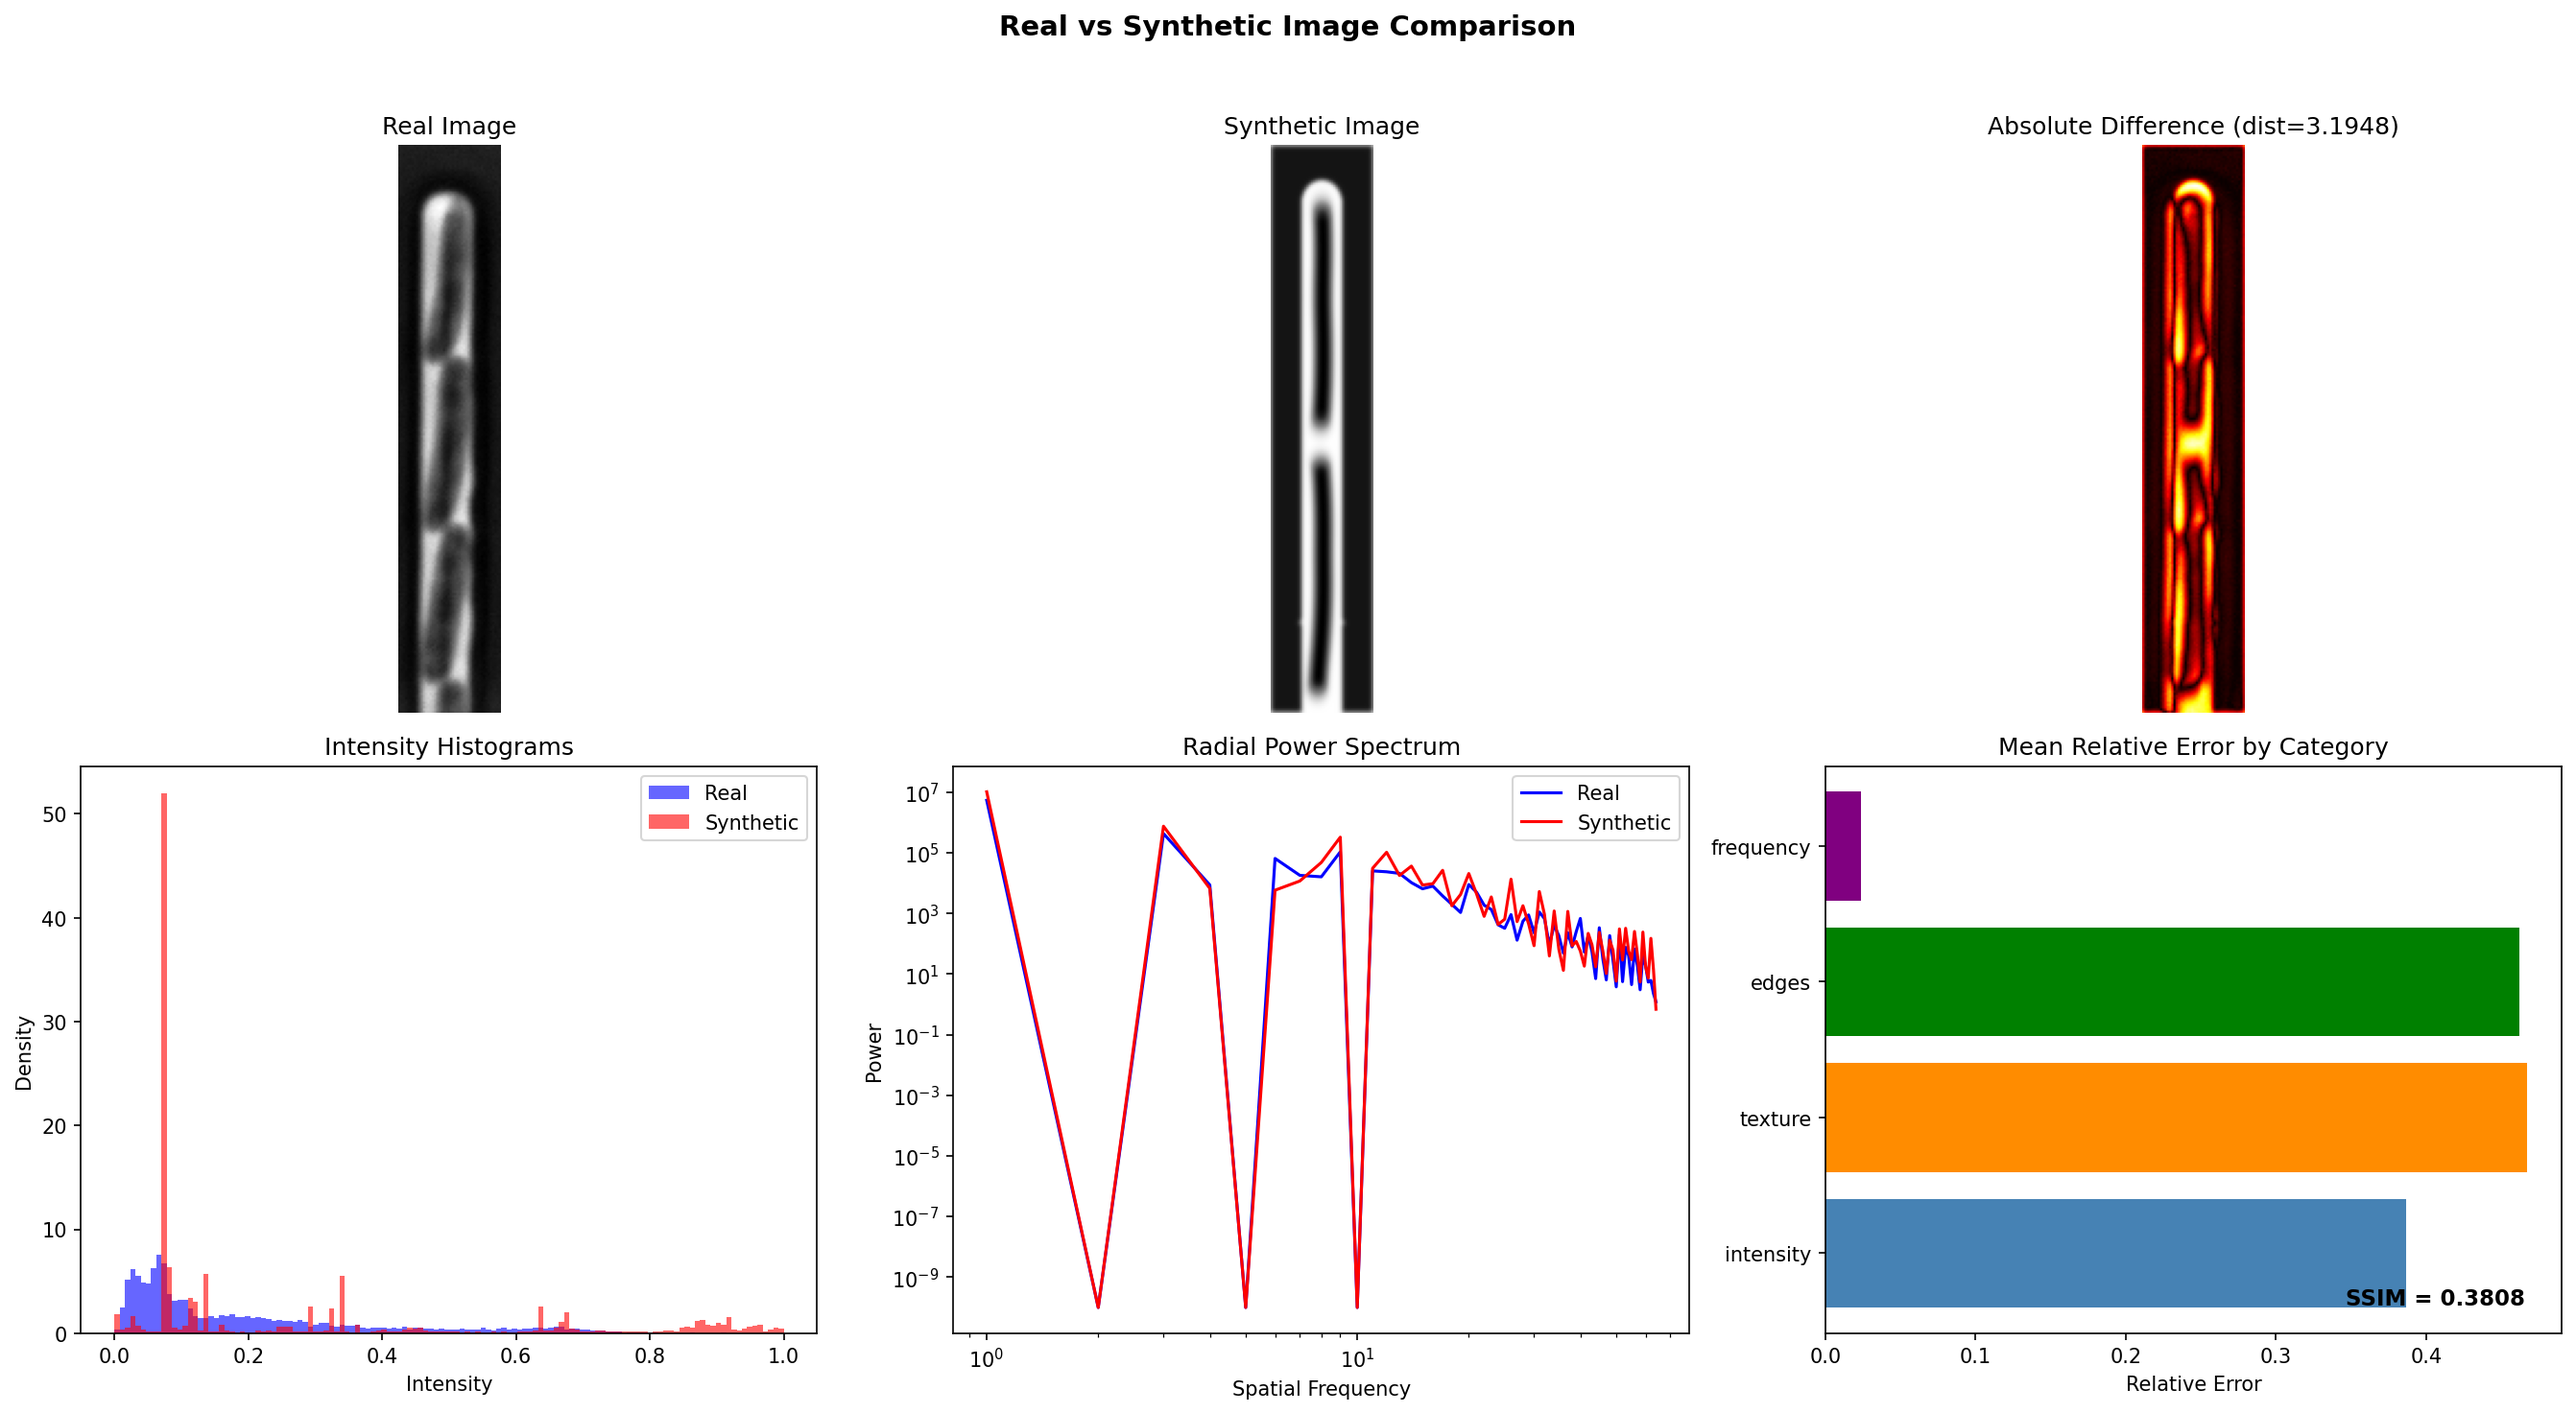
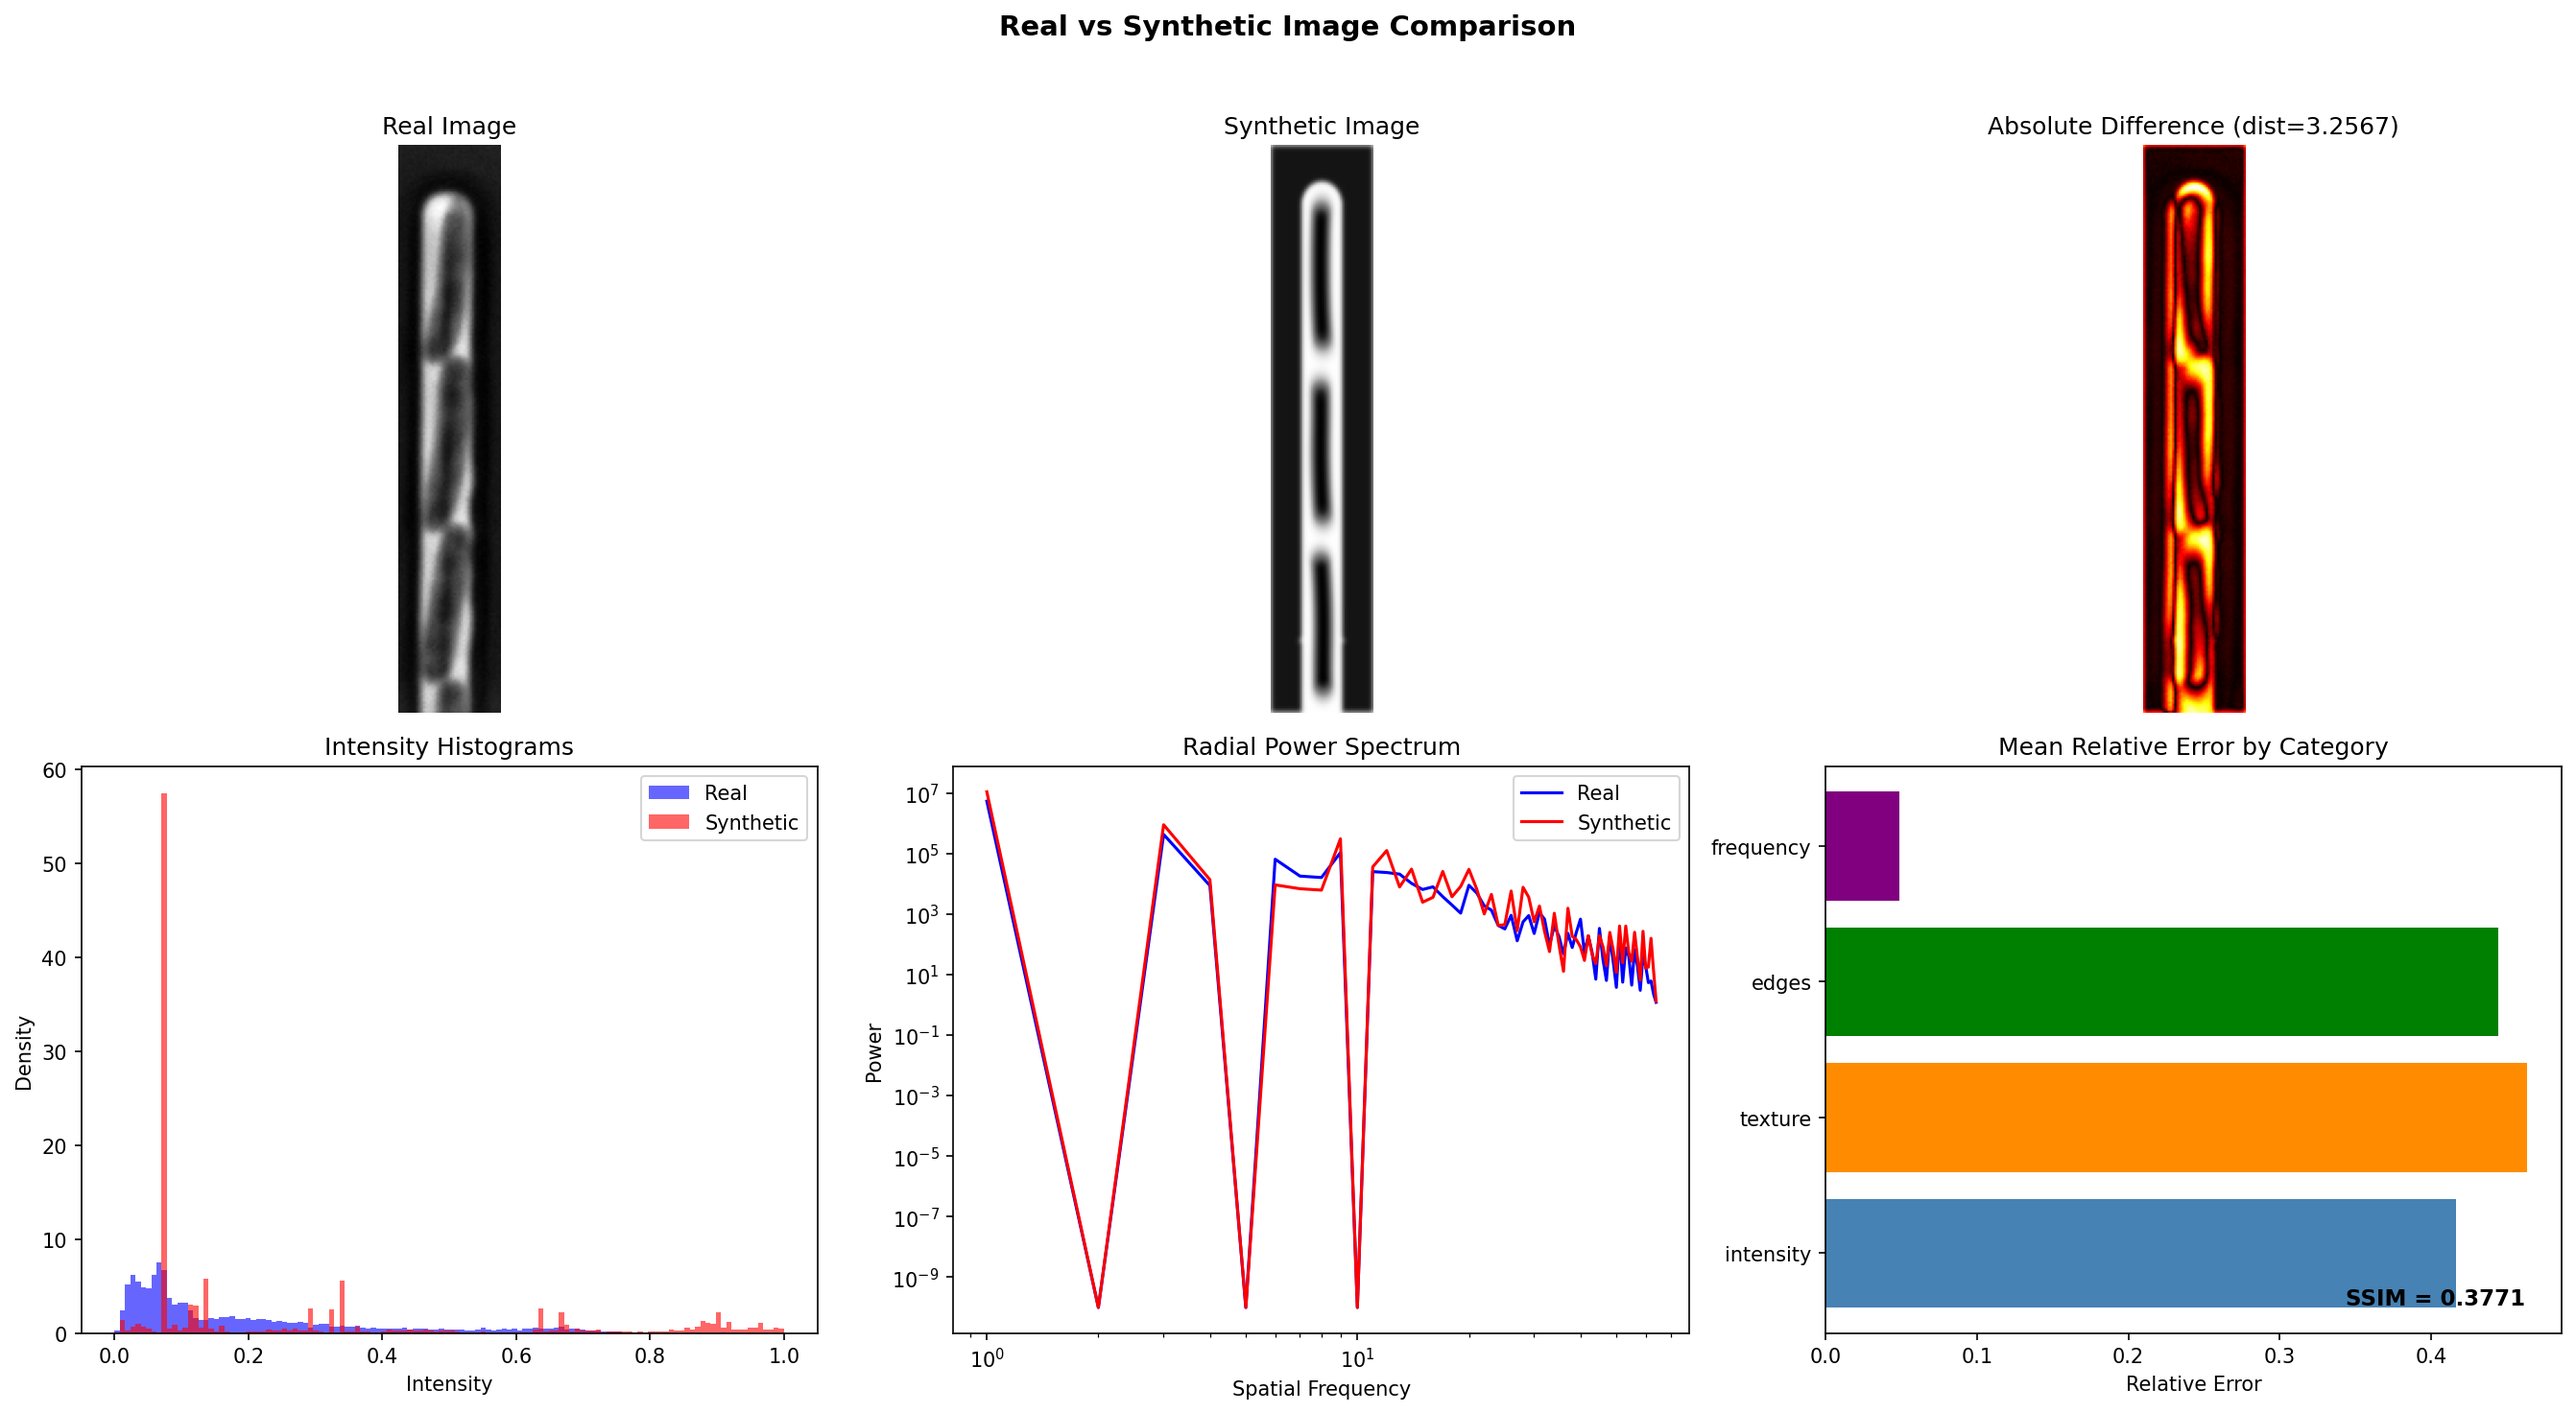
Reduce cell division length by 1/3 (BASE_MAX_LENGTH 260→173)
Shorter cells before division gives 3 cells in the trench, closer
to real image cell density. Feature distance 3.26, SSIM 0.38.

https://claude.ai/code/session_01U9EEs2Y8n8F9PLao9ZfbHF

diff --git a/examples/render_with_matched_params.py b/examples/render_with_matched_params.py
@@ -60,7 +60,7 @@ cell_config = CellConfig(
     SEGMENT_RADIUS=14,
     SEGMENT_MASS=1.0,
     GROWTH_RATE=5,
-    BASE_MAX_LENGTH=260,
+    BASE_MAX_LENGTH=173,
     MAX_LENGTH_VARIATION=0.15,
     MIN_LENGTH_AFTER_DIVISION=4,
     NOISE_STRENGTH=0.05,
